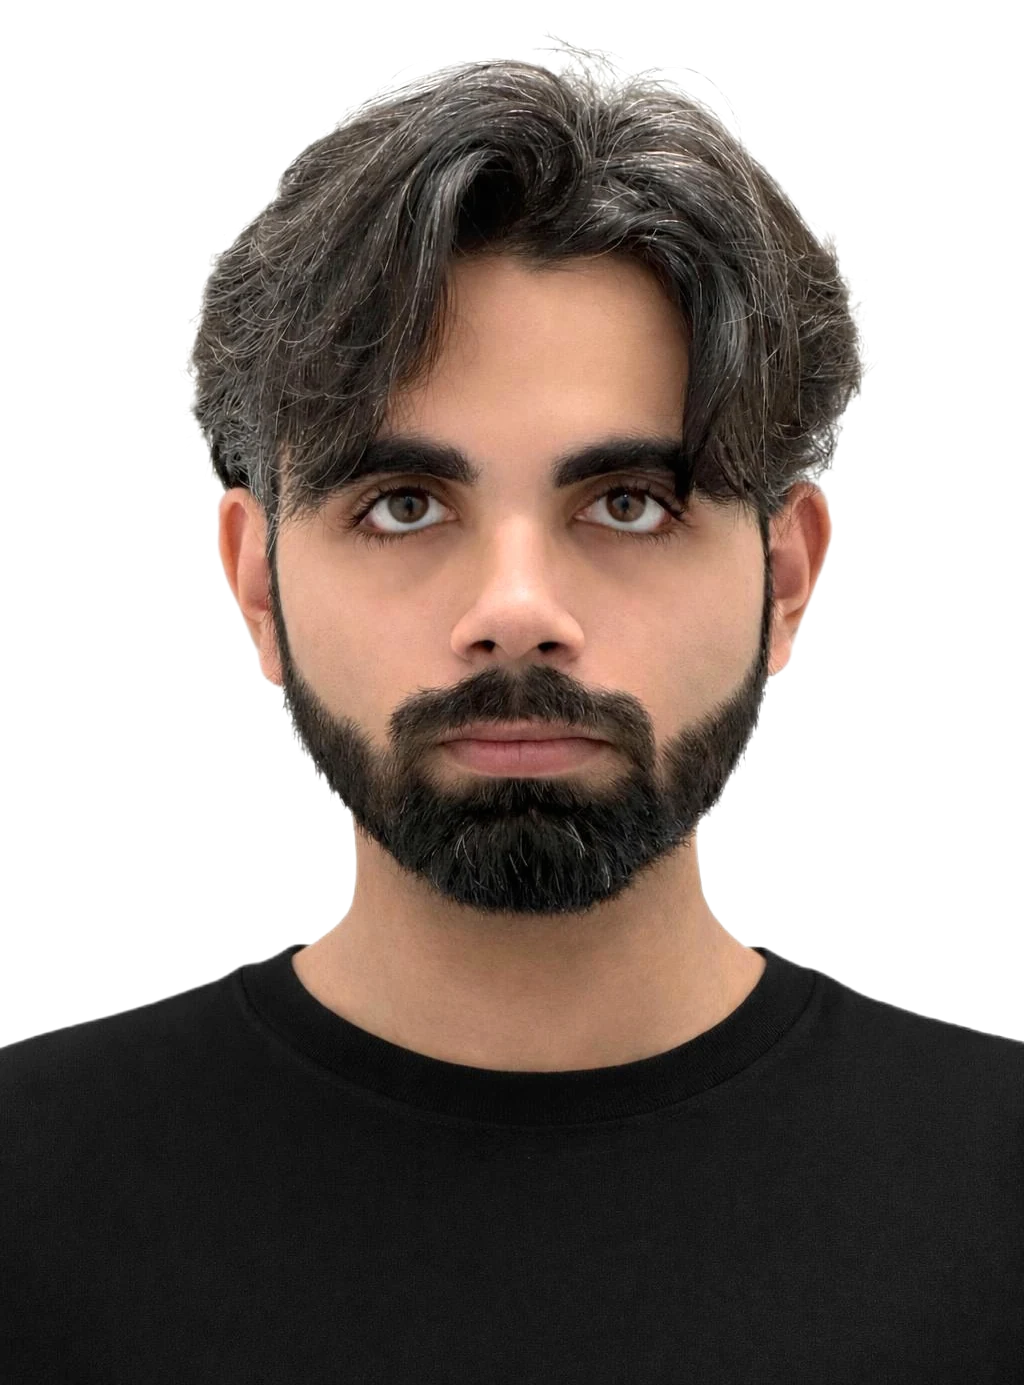
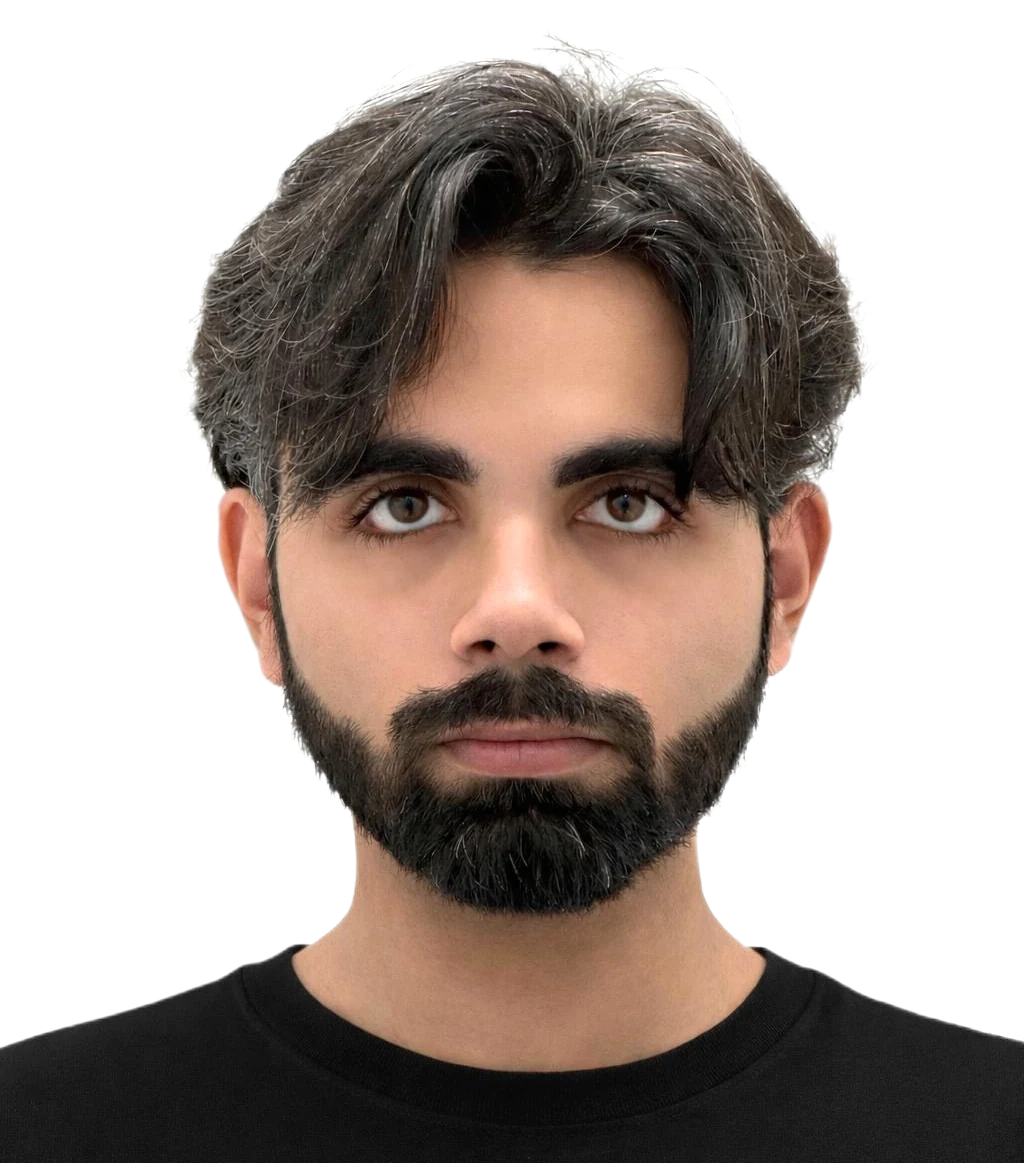
Reprint the dotted portrait so it reads as a face on a phone
The photograph is cropped at mid-chest so the shirt no longer takes most
of the points, phones get 9,000 points instead of 6,500, and the dither
averages each grid cell and runs serpentine so eyes, brows and beard
survive. The shirt stays black. The dots breathe less, so the print stays
sharp. Chosen by comparing variants side by side at phone and desktop size.

diff --git a/src/lib/shapes.js b/src/lib/shapes.js
@@ -103,12 +103,13 @@ export function textShape(lines, n, aspect, seed = 3) {
 // The portrait as a dithered print of the cut-out photograph: one point per
 // printed dot, placed by error diffusion so the light and shade of the face
 // survive at a few thousand points. Only the person is printed (the
-// cut-out's alpha): ink throughout, with blue where grey catches the light
-// in the hair, and the black shirt as a dark texture.
+// cut-out's alpha), in ink, with blue where grey catches the light in the
+// hair. The face is lightened and sharpened against its surroundings so the
+// features carry it; the black shirt prints as a dark texture.
 export function portraitShape(img, n, seed = 7) {
   const rand = rng(seed);
   const aspect = img.naturalWidth / img.naturalHeight;
-  const h = 320;
+  const h = 400;
   const w = Math.round(h * aspect);
   const c = document.createElement('canvas');
   c.width = w;
@@ -128,9 +129,7 @@ export function portraitShape(img, n, seed = 7) {
     skin[i] = inside[i] && lum[i] > 0.28 && data[k] - data[k + 2] > 35 ? 1 : 0;
   }
 
-  // Mean brightness of the skin around each pixel (summed-area tables over
-  // skin only, so hair and beard never make the skin beside them look lit):
-  // darker than its surroundings is shadow, lighter is highlight.
+  // Mean brightness of the figure around each pixel, from summed-area tables.
   const W = w + 1;
   const sum = new Float64Array(W * (h + 1));
   const cnt = new Float64Array(W * (h + 1));
@@ -139,7 +138,7 @@ export function portraitShape(img, n, seed = 7) {
     let rc = 0;
     for (let x = 0; x < w; x += 1) {
       const i = y * w + x;
-      if (skin[i]) {
+      if (inside[i]) {
         rs += lum[i];
         rc += 1;
       }
@@ -147,51 +146,38 @@ export function portraitShape(img, n, seed = 7) {
       cnt[(y + 1) * W + x + 1] = cnt[y * W + x + 1] + rc;
     }
   }
-  const R = 6;
   const box = (t, x0, y0, x1, y1) => t[y1 * W + x1] - t[y0 * W + x1] - t[y1 * W + x0] + t[y0 * W + x0];
   const mean = (x, y) => {
+    const R = 6;
     const x0 = Math.max(0, x - R);
     const y0 = Math.max(0, y - R);
     const x1 = Math.min(w, x + R + 1);
     const y1 = Math.min(h, y + R + 1);
-    const c = box(cnt, x0, y0, x1, y1);
-    return c ? box(sum, x0, y0, x1, y1) / c : lum[y * w + x];
-  };
-  const edge = (x, y) => {
-    if (x < 1 || y < 1 || x >= w - 1 || y >= h - 1) return 0;
-    const L = (dx, dy) => lum[(y + dy) * w + x + dx];
-    const gx = L(1, -1) + 2 * L(1, 0) + L(1, 1) - L(-1, -1) - 2 * L(-1, 0) - L(-1, 1);
-    const gy = L(-1, 1) + 2 * L(0, 1) + L(1, 1) - L(-1, -1) - 2 * L(0, -1) - L(1, -1);
-    return Math.min(1, Math.hypot(gx, gy));
+    const k = box(cnt, x0, y0, x1, y1);
+    return k ? box(sum, x0, y0, x1, y1) / k : lum[y * w + x];
   };
 
-  // The tone each pixel should print at (0 white, 1 black). Skin is
-  // lightened and sharpened against its surroundings so the features carry
-  // the face; the black shirt prints dark, but open enough to stay a texture.
+  // The tone each pixel should print at (0 nothing, 1 solid ink).
+  const SHIRT = 0.8;
   const ink = new Float32Array(w * h);
   let total = 0;
   for (let y = 0; y < h; y += 1) {
     for (let x = 0; x < w; x += 1) {
       const i = y * w + x;
       if (!inside[i]) continue;
-      const l = lum[i];
+      const l0 = lum[i];
+      const l = Math.min(1, Math.max(0, l0 + 1.6 * (l0 - mean(x, y))));
       let t;
-      if (skin[i]) {
-        const sharp = l + 1.6 * (l - mean(x, y));
-        t = 1 - Math.min(1, Math.max(0, (sharp - 0.3) / 0.5));
-        t = Math.pow(t, 1.15);
-      } else if (y / h > 0.67) {
-        t = 0.6;
-      } else {
-        t = Math.min(1, (1 - l) * 1.05);
-      }
+      if (skin[i]) t = 1 - Math.min(1, Math.max(0, (l - 0.22) / 0.62));
+      else if (y / h > SHIRT) t = 0.72;
+      else t = Math.min(1, (1 - l) * 1.05);
       ink[i] = t;
       total += t;
     }
   }
 
-  // Error diffusion (Floyd–Steinberg) on a grid sized so that about `n`
-  // cells print. Each printed cell becomes one point.
+  // A grid sized so that about `n` cells print, each cell the average of
+  // the pixels it covers, so small features survive the step down.
   const k = Math.sqrt(n / Math.max(1, total));
   const gw = Math.max(1, Math.round(w * k));
   const gh = Math.max(1, Math.round(h * k));
@@ -199,34 +185,53 @@ export function portraitShape(img, n, seed = 7) {
   const mask = new Uint8Array(gw * gh);
   const grey = new Uint8Array(gw * gh);
   for (let gy = 0; gy < gh; gy += 1) {
+    const y0 = Math.floor((gy / gh) * h);
+    const y1 = Math.max(y0 + 1, Math.floor(((gy + 1) / gh) * h));
     for (let gx = 0; gx < gw; gx += 1) {
-      const sx = Math.min(w - 1, Math.floor(((gx + 0.5) / gw) * w));
-      const sy = Math.min(h - 1, Math.floor(((gy + 0.5) / gh) * h));
-      const i = sy * w + sx;
+      const x0 = Math.floor((gx / gw) * w);
+      const x1 = Math.max(x0 + 1, Math.floor(((gx + 1) / gw) * w));
+      let a = 0;
+      let m = 0;
+      let gr = 0;
+      let all = 0;
+      for (let y = y0; y < y1; y += 1) {
+        for (let x = x0; x < x1; x += 1) {
+          const i = y * w + x;
+          all += 1;
+          if (!inside[i]) continue;
+          m += 1;
+          a += ink[i];
+          if (!skin[i] && y / h <= SHIRT && lum[i] > 0.3) gr += 1;
+        }
+      }
       const g = gy * gw + gx;
-      mask[g] = inside[i];
-      grid[g] = ink[i];
-      grey[g] = !skin[i] && sy / h <= 0.67 && lum[i] > 0.3 ? 1 : 0;
+      mask[g] = m * 2 >= all ? 1 : 0;
+      grid[g] = m ? a / m : 0;
+      grey[g] = gr * 2 > m ? 1 : 0;
     }
   }
+
+  // Error diffusion (Floyd–Steinberg), serpentine so no row drifts one way.
+  // Each printed cell becomes one point.
   const cands = [];
-  const spread = (gx, gy, err) => {
-    if (gx < 0 || gx >= gw || gy >= gh) return;
-    const g = gy * gw + gx;
-    if (mask[g]) grid[g] += err;
+  const put = (x, y, e) => {
+    if (x < 0 || x >= gw || y >= gh) return;
+    const g = y * gw + x;
+    if (mask[g]) grid[g] += e;
   };
   for (let gy = 0; gy < gh; gy += 1) {
-    for (let gx = 0; gx < gw; gx += 1) {
+    const dir = gy % 2 ? -1 : 1;
+    for (let s = 0; s < gw; s += 1) {
+      const gx = dir === 1 ? s : gw - 1 - s;
       const g = gy * gw + gx;
       if (!mask[g]) continue;
       const on = grid[g] > 0.5 ? 1 : 0;
       const err = grid[g] - on;
-      spread(gx + 1, gy, (err * 7) / 16);
-      spread(gx - 1, gy + 1, (err * 3) / 16);
-      spread(gx, gy + 1, (err * 5) / 16);
-      spread(gx + 1, gy + 1, err / 16);
+      put(gx + dir, gy, (err * 7) / 16);
+      put(gx - dir, gy + 1, (err * 3) / 16);
+      put(gx, gy + 1, (err * 5) / 16);
+      put(gx + dir, gy + 1, err / 16);
       if (!on) continue;
-      // Grey strands in the hair catch the light in blue; the rest is ink.
       const tone = grey[g] && rand() < 0.7 ? BLUE : INK;
       cands.push([(gx + 0.5 + (rand() - 0.5) * 0.5) / gw, (gy + 0.5 + (rand() - 0.5) * 0.5) / gh, tone]);
     }

diff --git a/src/components/Field.jsx b/src/components/Field.jsx
@@ -40,7 +40,7 @@ export default function Field() {
     const root = document.documentElement;
     const narrow = window.innerWidth < 720;
     const reduce = window.matchMedia('(prefers-reduced-motion: reduce)').matches;
-    const n = narrow ? 6500 : 15000;
+    const n = narrow ? 9000 : 15000;
     let field;
     try {
       // On a phone the flick of a thumb is fast; the streaks are kept short.
@@ -55,7 +55,7 @@ export default function Field() {
     let alive = true;
     const size = (name) => {
       if (name === 'name') return narrow ? 2.6 : 3.4;
-      if (name === 'portrait') return narrow ? 2.7 : 3;
+      if (name === 'portrait') return narrow ? 2.4 : 3;
       return narrow ? 2.2 : 2.8;
     };
     const els = [...document.querySelectorAll('[data-stage]')];

diff --git a/src/components/Who.jsx b/src/components/Who.jsx
@@ -60,7 +60,7 @@ export default function Who() {
         </Stagger>
         <p className="who__hint">
           <span className="hint-fine">Move over the dots to see the photograph underneath.</span>
-          <span className="hint-touch">That’s me, in 6,500 points. Tap the dots to see the photograph.</span>
+          <span className="hint-touch">That’s me, in 9,000 points. Tap the dots to see the photograph.</span>
         </p>
       </div>
     </section>

diff --git a/src/lib/field.js b/src/lib/field.js
@@ -47,7 +47,7 @@ void main() {
 
   // Breathing at rest, and streaks when the page is flung.
   float t = uTime;
-  p += vec2(sin(t * 0.8 + aRand.z * 40.0), cos(t * 0.7 + aRand.w * 40.0)) * 1.1 * uMotion;
+  p += vec2(sin(t * 0.8 + aRand.z * 40.0), cos(t * 0.7 + aRand.w * 40.0)) * 0.45 * uMotion;
   p.y += uVel * (aRand.x - 0.5) * 1.4 * uStreak * uMotion;
   p.x += uVel * (aRand.w - 0.5) * 0.5 * uStreak * uMotion;
 

diff --git a/src/data.js b/src/data.js
@@ -27,7 +27,7 @@ export const domains = [
 ];
 
 // The portrait, cut out from its background (the original is portrait.jpg).
-export const portrait = { src: '/images/portrait-cut.webp', width: 1024, height: 1385 };
+export const portrait = { src: '/images/portrait-cut.webp', width: 1024, height: 1163 };
 
 const pic = (file, alt, credit, href, licence) => ({ src: `/world/${file}`, alt, credit, href, licence });
 

diff --git a/src/styles.css b/src/styles.css
@@ -333,7 +333,7 @@ a { color: inherit; text-decoration: none; }
 .who__stage {
   grid-column: 1 / 6;
   position: relative;
-  aspect-ratio: 1024 / 1385;
+  aspect-ratio: 1024 / 1163;
   max-height: 84svh;
   width: 100%;
   justify-self: center;

diff --git a/DESIGN.md b/DESIGN.md
@@ -46,7 +46,7 @@ Headings use `<Stretch>` (`src/lib/motion.jsx`). They widen from 62% to 125% wid
 ## The particle field (`src/lib/field.js`, `src/lib/shapes.js`, `src/components/Field.jsx`)
 
 **Rendering.**
-- A single raw WebGL draw call: 15,000 points on desktop, 6,500 on phones. No three.js.
+- A single raw WebGL draw call: 15,000 points on desktop, 9,000 on phones. No three.js.
 - The canvas is fixed under the page content. Text always reads above it.
 
 **Stages.**
@@ -55,7 +55,7 @@ Headings use `<Stretch>` (`src/lib/motion.jsx`). They widen from 62% to 125% wid
 
 **Shapes.**
 - Text is sampled from Archivo on a canvas.
-- The portrait is a dithered print of the cut-out photograph (`portrait-cut.webp`): error diffusion places one point per printed dot, in ink, with blue where grey catches the light in the hair. The face is lightened and sharpened so the features carry it; the black shirt prints as a dark texture.
+- The portrait is a dithered print of the cut-out photograph (`portrait-cut.webp`, cropped at mid-chest so the face gets the points): error diffusion on a box-averaged grid places one point per printed dot, in ink, with blue where grey catches the light in the hair. The face is lightened and sharpened against its surroundings so the features carry it; the black shirt prints as a dark texture. Variants were compared side by side at phone and desktop size before this one was chosen.
 - The other shapes are generated.
 
 **Colour.**
